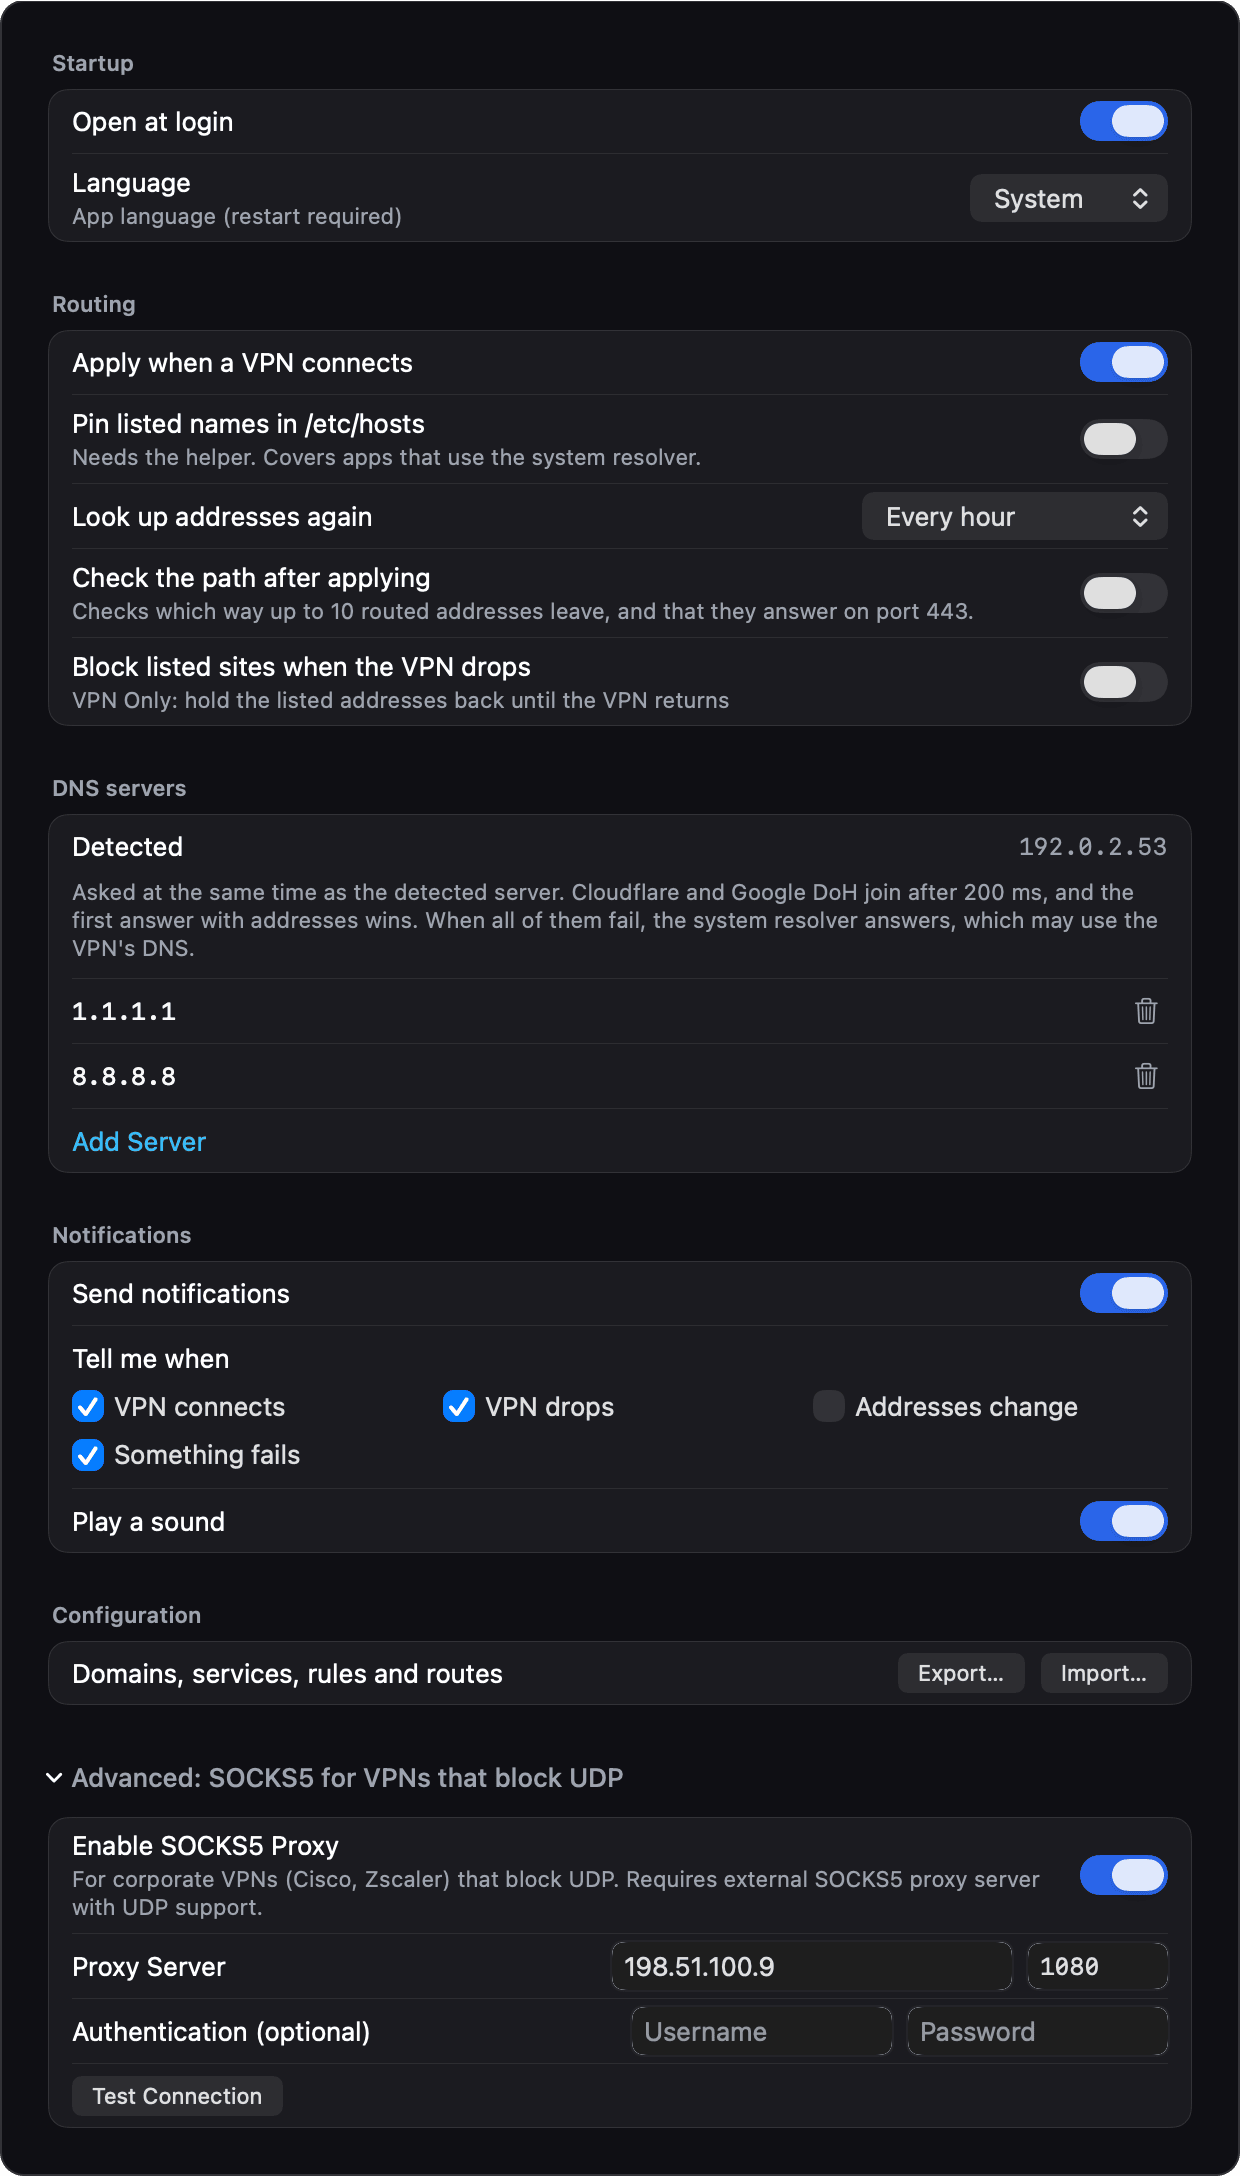
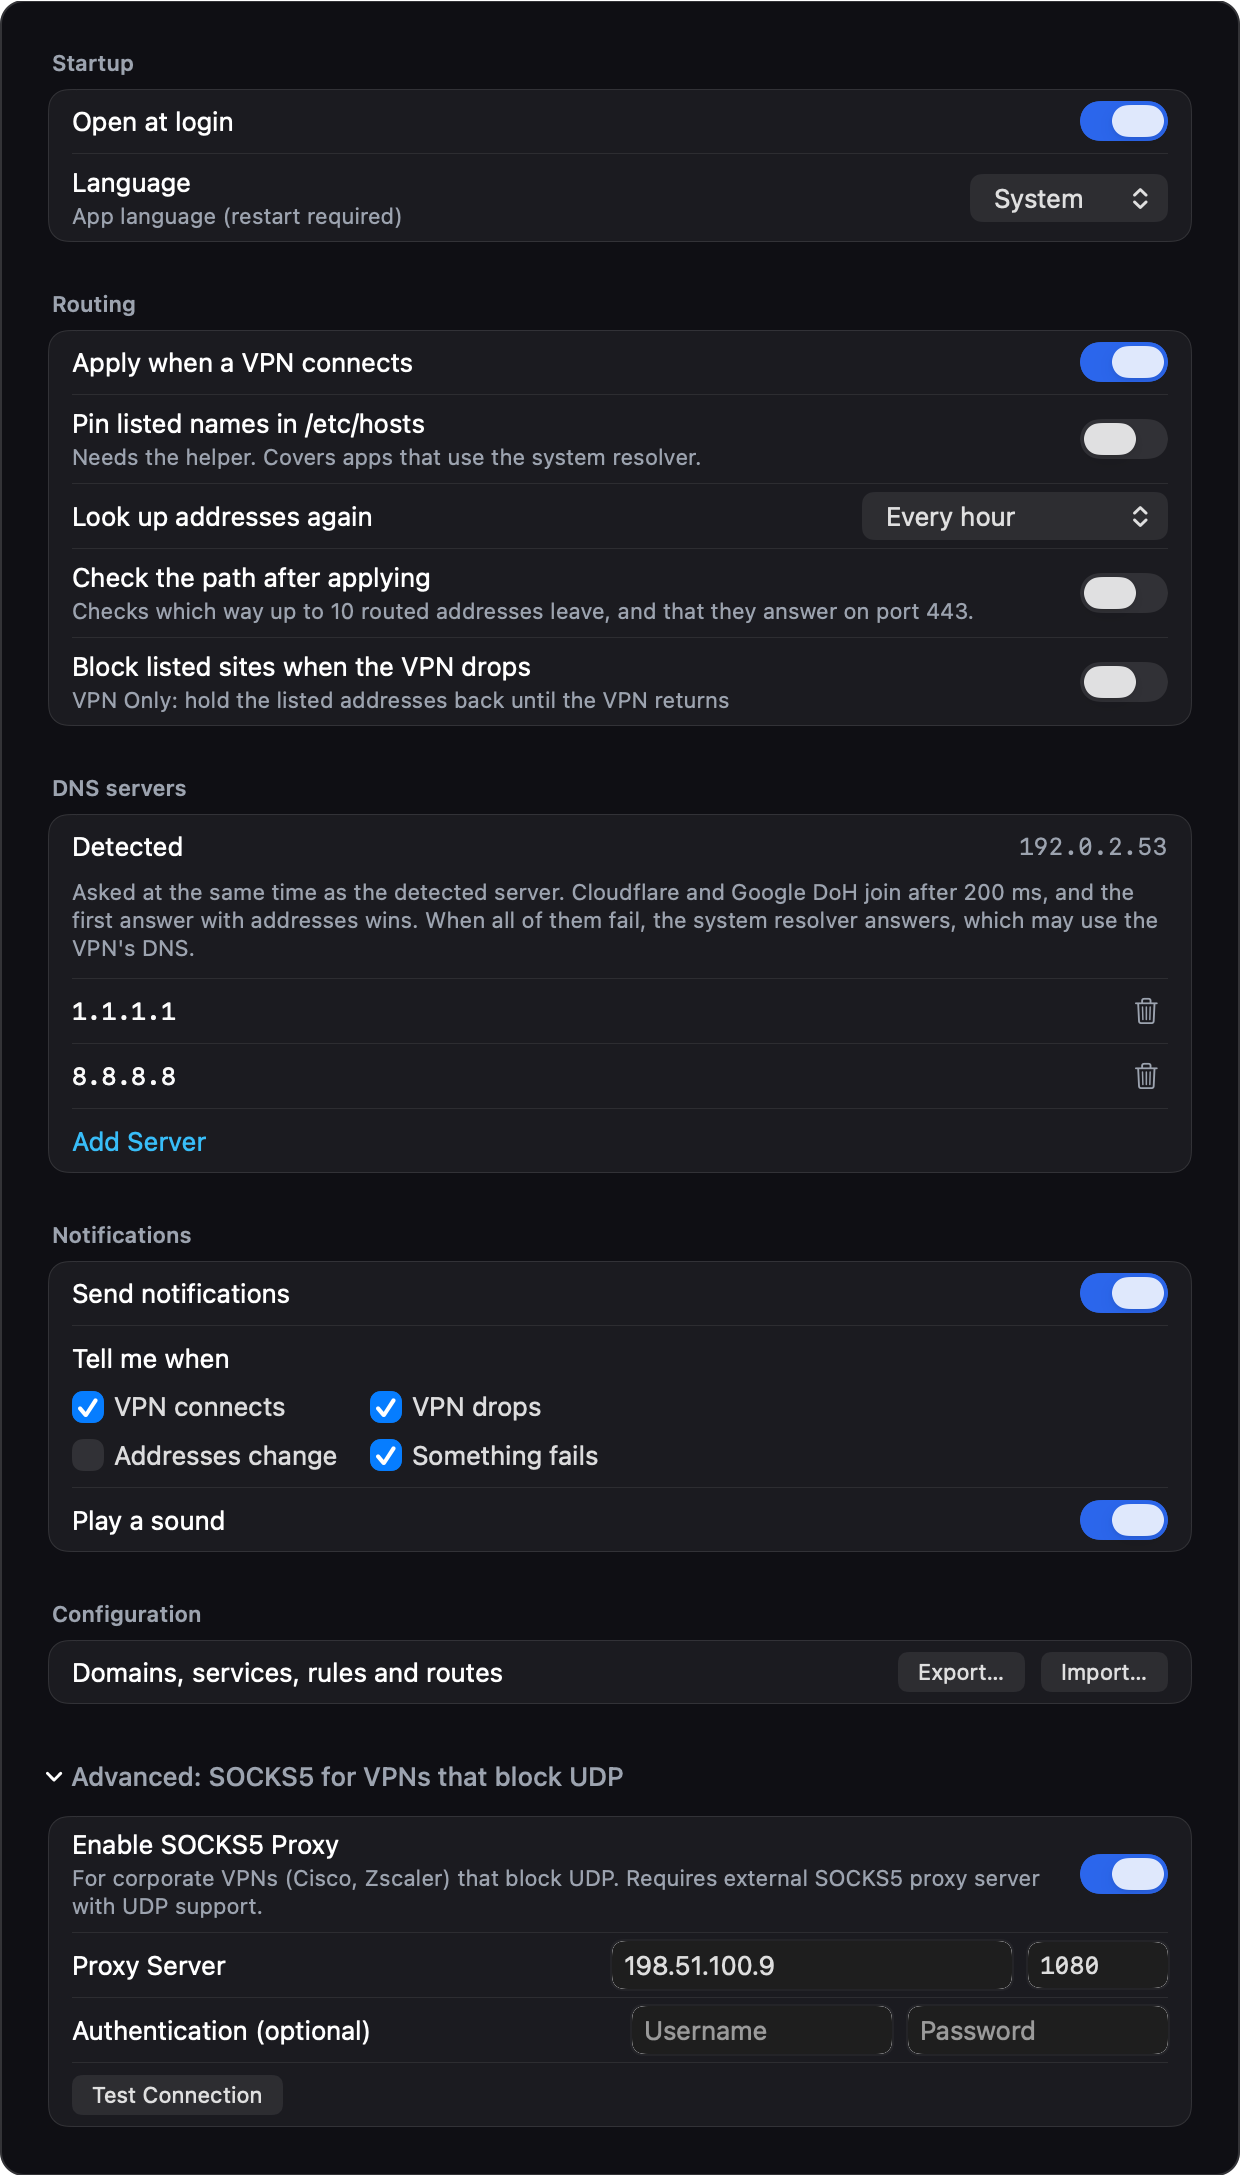
fix(general): build every notification checkbox, so VoiceOver finds all four
The kinds sat in a lazy grid, which leaves cells below the visible part
of the window unbuilt: on a short screen (the CI runner's) VPN connects
and Something fails were missing from the accessibility tree. A plain
two-column grid builds all four.

diff --git a/Sources/VPNBypassCore/GeneralPage.swift b/Sources/VPNBypassCore/GeneralPage.swift
@@ -337,16 +337,16 @@ struct GeneralTab: View {
                 Text("Tell me when")
                     .font(Theme.Font.body)
                     .foregroundColor(Theme.text)
-                LazyVGrid(columns: [GridItem(.adaptive(minimum: 150), alignment: .leading)],
-                          alignment: .leading, spacing: Theme.Space.s) {
-                    ForEach(GeneralPage.NotificationKind.allCases, id: \.self) { kind in
-                        Toggle(kind.title(), isOn: Binding(
-                            get: { notificationManager[keyPath: kind.keyPath] },
-                            set: { notificationManager[keyPath: kind.keyPath] = $0; notificationManager.savePreferences() }
-                        ))
-                        .toggleStyle(.checkbox)
-                        .font(Theme.Font.body)
-                        .help(kind == .addresses ? String(localized: "Addresses: services, domains, DNS refresh") : "")
+                // A plain two-column grid, not a lazy one: four checkboxes need no laziness, and a
+                // lazy grid may leave a cell unbuilt, so VoiceOver would not find it.
+                let kinds = GeneralPage.NotificationKind.allCases
+                Grid(alignment: .leading, horizontalSpacing: Theme.Space.l, verticalSpacing: Theme.Space.s) {
+                    ForEach(Array(stride(from: 0, to: kinds.count, by: 2)), id: \.self) { start in
+                        GridRow {
+                            ForEach(kinds[start..<min(start + 2, kinds.count)], id: \.self) { kind in
+                                notificationCheckbox(kind)
+                            }
+                        }
                     }
                 }
             }
@@ -364,6 +364,16 @@ struct GeneralTab: View {
             .disabled(!notificationManager.notificationsEnabled)
             .opacity(notificationManager.notificationsEnabled ? 1 : 0.55)
         }
+    }
+
+    private func notificationCheckbox(_ kind: GeneralPage.NotificationKind) -> some View {
+        Toggle(kind.title(), isOn: Binding(
+            get: { notificationManager[keyPath: kind.keyPath] },
+            set: { notificationManager[keyPath: kind.keyPath] = $0; notificationManager.savePreferences() }
+        ))
+        .toggleStyle(.checkbox)
+        .font(Theme.Font.body)
+        .help(kind == .addresses ? String(localized: "Addresses: services, domains, DNS refresh") : "")
     }
 
     private var configuration: some View {
